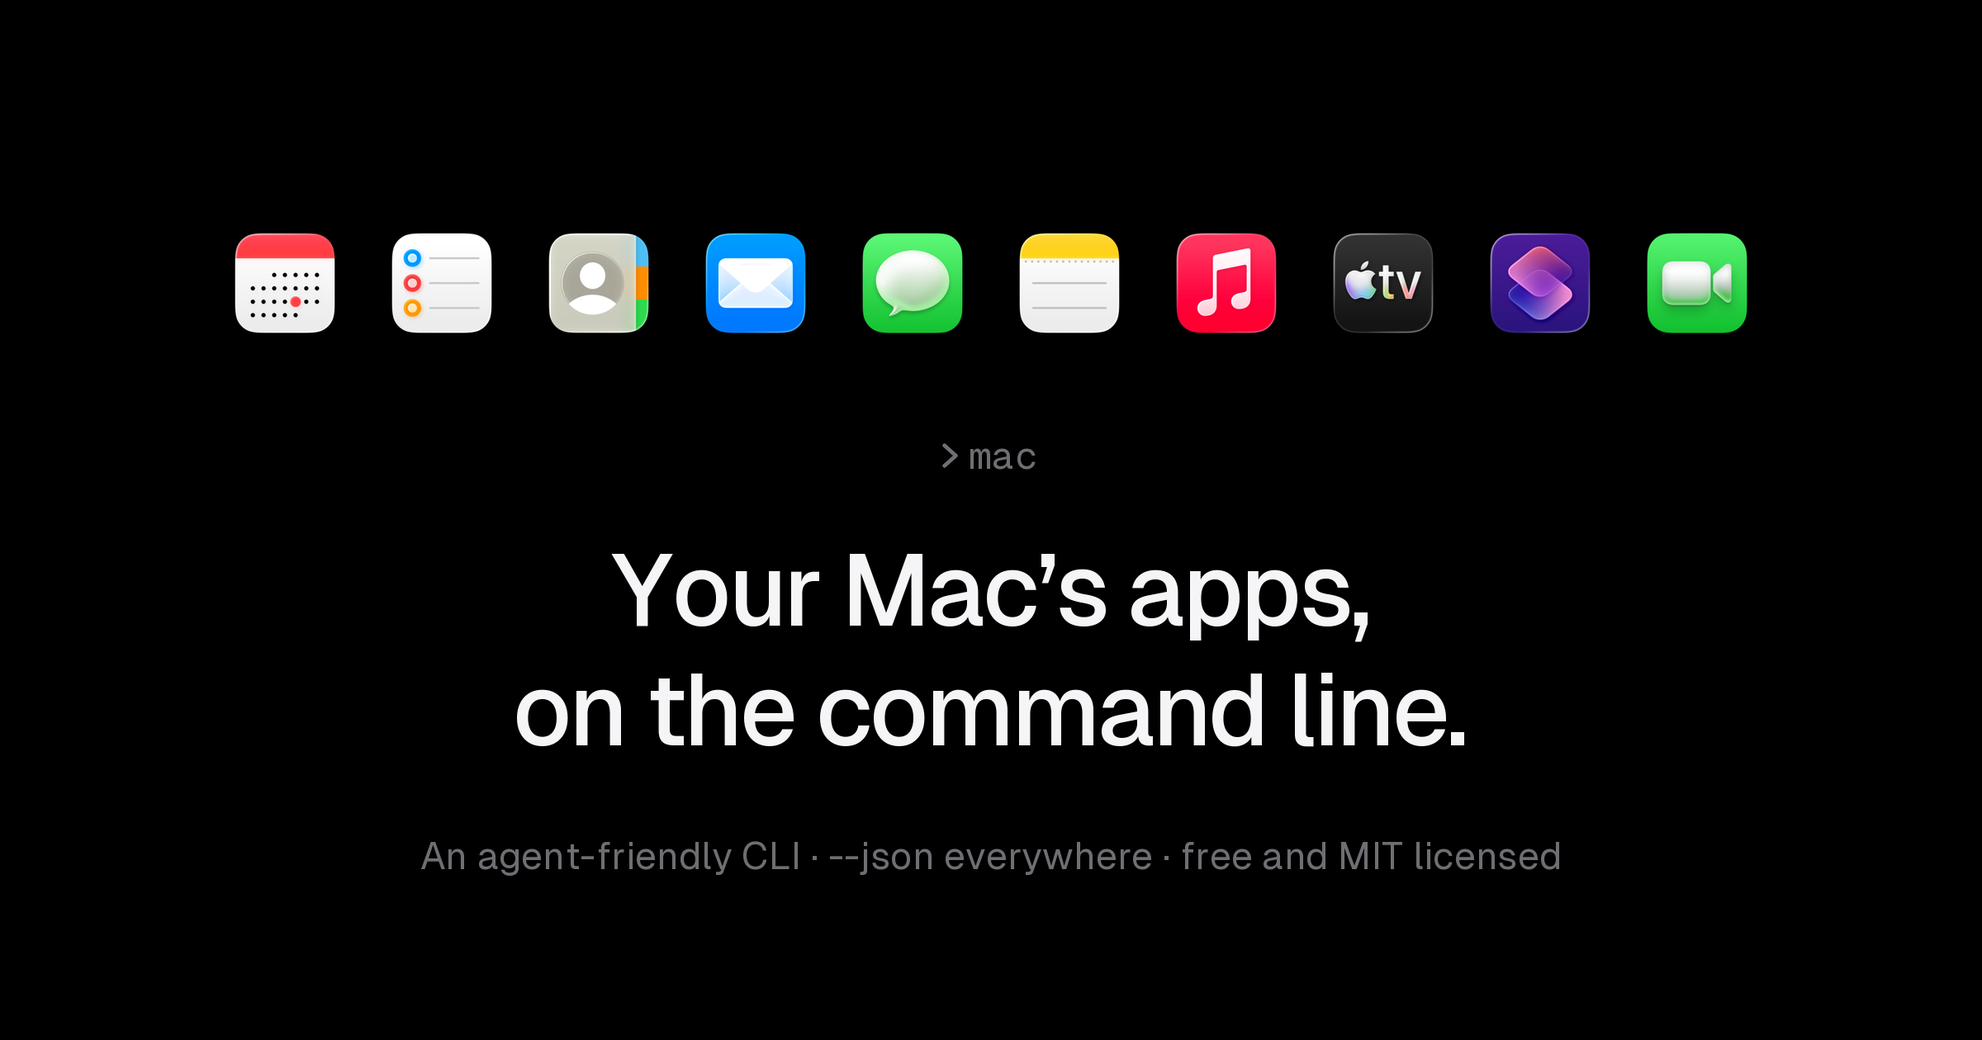
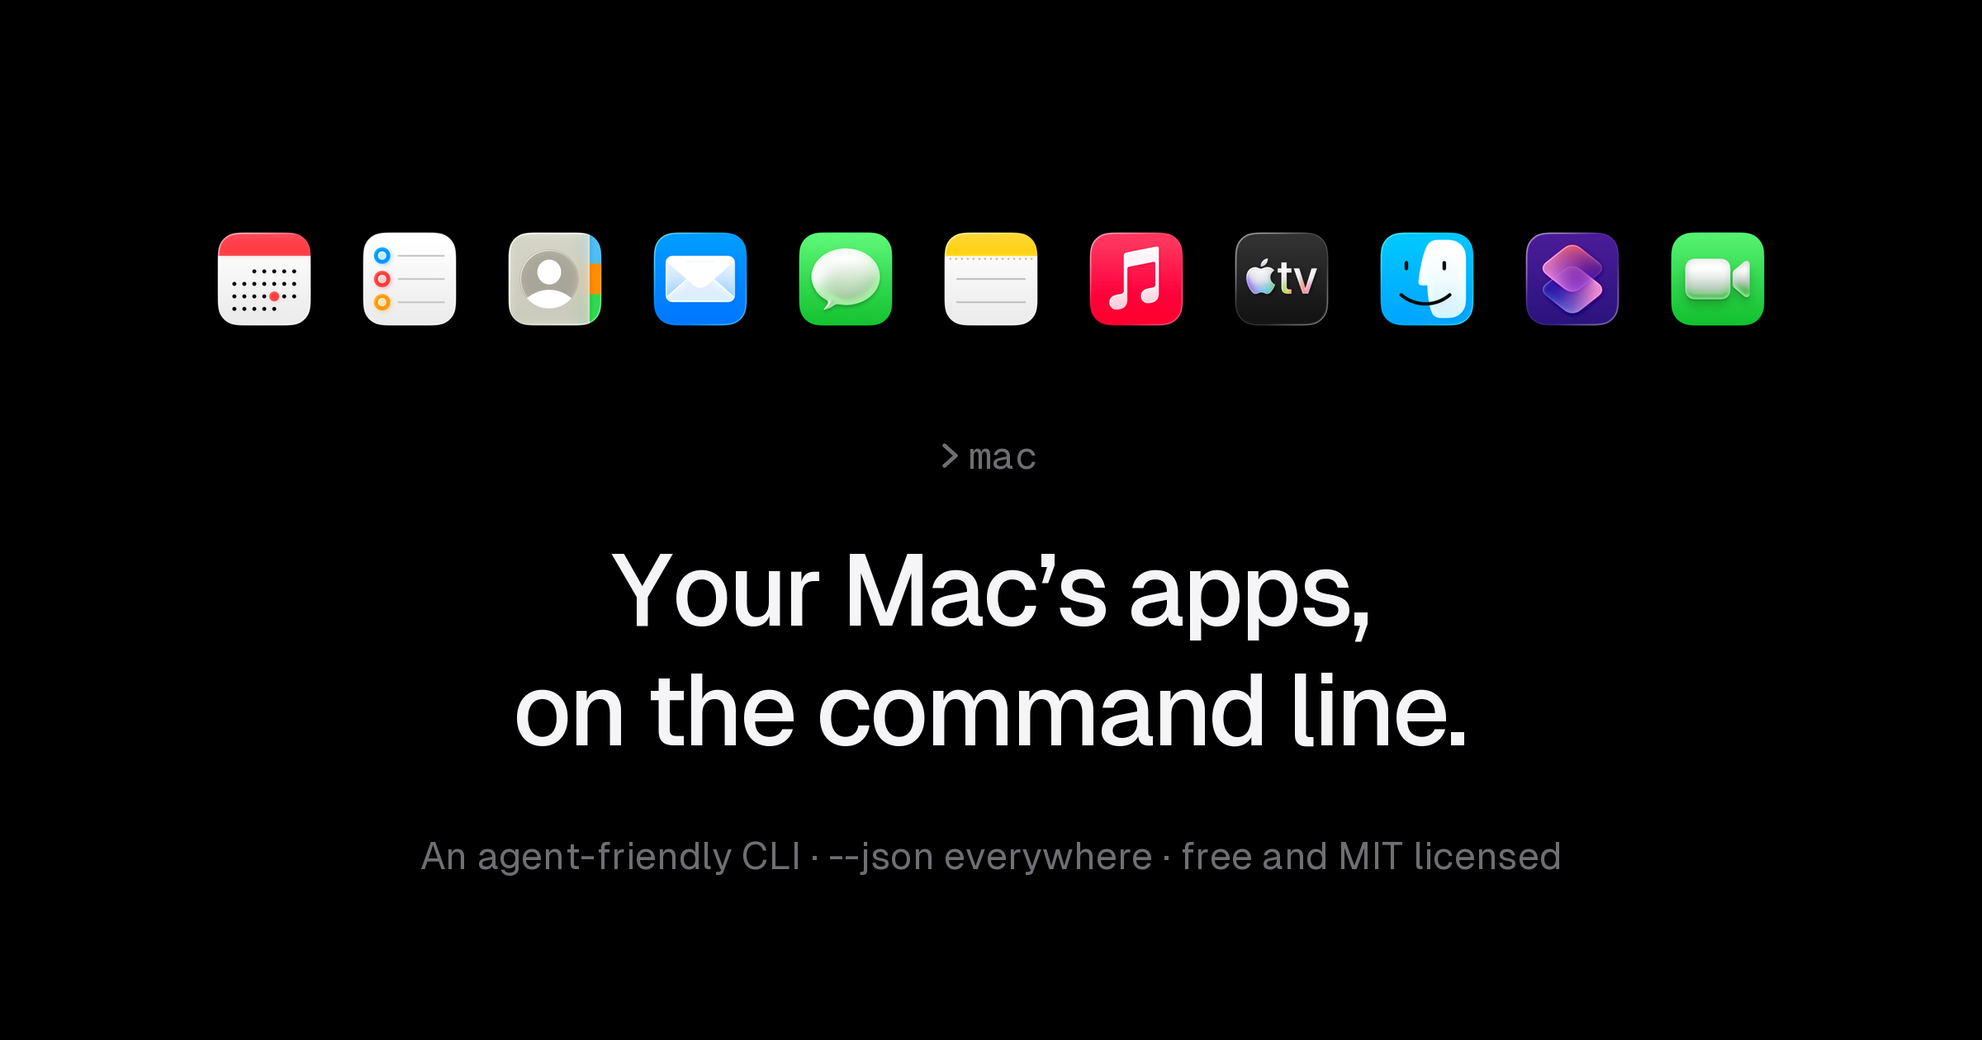
feat(site): promote the site to v0.5.0 with Finder
Finder joins the hero row and the card grid, the doctor sample gains
its eleventh row, and the roadmap drops to Keynote/Pages/Numbers now
that v5 has shipped. The OG card gains an eleventh icon, with the row
tightened to 140px so it still balances at 2400 wide.

The Finder card leads with the restraint rather than the feature
list, because that is the interesting part: it covers the GUI state a
shell cannot see (selection, reveal, mounted disks) and deliberately
has no ls/cp/mv, since an agent driving this already has a shell.

llms.txt tells agents to prefer `mac finder trash` over `rm` for a
user's files, since it is recoverable and there is no empty-trash
command anywhere in the tool. Its scriptability table is regenerated
from README.md, which no longer lists Finder as unwired.

The launch kit follows to eleven apps and 422 tests, both counted
from the tree rather than taken on trust.

Changed region(s): [[0.0938, 0.2167, 0.9062, 0.3405]]

diff --git a/site/index.html b/site/index.html
@@ -4,12 +4,12 @@
 <meta charset="utf-8">
 <meta name="viewport" content="width=device-width, initial-scale=1">
 <title>mac: your Mac's apps, on the command line</title>
-<meta name="description" content="An agent-friendly CLI for Calendar, Reminders, Contacts, Mail, Messages, Notes, Music, TV, Shortcuts and calls. Native frameworks, millisecond calls, --json on every command, exit codes an agent can branch on. Free and MIT licensed.">
+<meta name="description" content="An agent-friendly CLI for Calendar, Reminders, Contacts, Mail, Messages, Notes, Music, TV, Finder, Shortcuts and calls. Native frameworks, millisecond calls, --json on every command, exit codes an agent can branch on. Free and MIT licensed.">
 <link rel="canonical" href="https://macoscli.sh/">
 <meta property="og:type" content="website">
 <meta property="og:site_name" content="mac">
 <meta property="og:title" content="mac: your Mac's apps, on the command line">
-<meta property="og:description" content="An agent-friendly CLI for Calendar, Reminders, Contacts, Mail, Messages, Notes, Music, TV, Shortcuts and calls. Free and open source.">
+<meta property="og:description" content="An agent-friendly CLI for Calendar, Reminders, Contacts, Mail, Messages, Notes, Music, TV, Finder, Shortcuts and calls. Free and open source.">
 <meta property="og:url" content="https://macoscli.sh/">
 <meta property="og:image" content="https://macoscli.sh/assets/og.png">
 <meta property="og:image:width" content="2400">
@@ -266,7 +266,7 @@
 </header>
 
 <section class="hero rail">
-  <h1><img class="inline-icon" src="/assets/calendar.png" alt="">Calendar, <img class="inline-icon" src="/assets/reminders.png" alt="">Reminders, <img class="inline-icon" src="/assets/contacts.png" alt="">Contacts, <img class="inline-icon" src="/assets/mail.png" alt="">Mail, <img class="inline-icon" src="/assets/messages.png" alt="">Messages, <img class="inline-icon" src="/assets/notes.png" alt="">Notes, <img class="inline-icon" src="/assets/music.png" alt="">Music, <img class="inline-icon" src="/assets/tv.png" alt="">TV, <img class="inline-icon" src="/assets/shortcuts.png" alt="">Shortcuts and <img class="inline-icon" src="/assets/facetime.png" alt="">FaceTime, on the command line. <span class="rest">One binary, built for AI agents and the humans who drive them. Every command has <code>--json</code>, stable exit codes, and IDs you can trust.</span></h1>
+  <h1><img class="inline-icon" src="/assets/calendar.png" alt="">Calendar, <img class="inline-icon" src="/assets/reminders.png" alt="">Reminders, <img class="inline-icon" src="/assets/contacts.png" alt="">Contacts, <img class="inline-icon" src="/assets/mail.png" alt="">Mail, <img class="inline-icon" src="/assets/messages.png" alt="">Messages, <img class="inline-icon" src="/assets/notes.png" alt="">Notes, <img class="inline-icon" src="/assets/music.png" alt="">Music, <img class="inline-icon" src="/assets/tv.png" alt="">TV, <img class="inline-icon" src="/assets/finder.png" alt="">Finder, <img class="inline-icon" src="/assets/shortcuts.png" alt="">Shortcuts and <img class="inline-icon" src="/assets/facetime.png" alt="">FaceTime, on the command line. <span class="rest">One binary, built for AI agents and the humans who drive them. Every command has <code>--json</code>, stable exit codes, and IDs you can trust.</span></h1>
   <div class="buttons">
     <span class="cmd">
       <code id="install"><span class="p">❯</span>git clone https://github.com/31Carlton7/mac-cli.git &amp;&amp; cd mac-cli &amp;&amp; make install</code>
@@ -290,7 +290,7 @@
 </div>
 
 <section class="statement rail">
-  <h2>Native frameworks, not screen scraping. <span class="rest">Calendar, Reminders and Contacts run on EventKit and Contacts: millisecond calls, typed errors, stable IDs. Mail, Messages, Notes, Music, TV and Shortcuts go through AppleScript and a read-only Messages database, because Apple ships no public API for them, and <code>mac</code> is honest about the difference.</span></h2>
+  <h2>Native frameworks, not screen scraping. <span class="rest">Calendar, Reminders and Contacts run on EventKit and Contacts: millisecond calls, typed errors, stable IDs. Mail, Messages, Notes, Music, TV, Finder and Shortcuts go through AppleScript and a read-only Messages database, because Apple ships no public API for them, and <code>mac</code> is honest about the difference.</span></h2>
 </section>
 
 <section class="rail">
@@ -342,6 +342,12 @@
       <p>What's playing, pause, resume, play by id.</p>
       <pre><span class="t-p">❯ </span><span class="t-cmd">mac tv list</span> <span class="t-arg">--limit 10</span>
 <span class="t-p">❯ </span><span class="t-cmd">mac tv play</span> <span class="t-arg">&lt;id&gt;</span></pre>
+    </div>
+    <div class="app">
+      <div class="app-head"><img src="/assets/finder.png" alt=""><h3>Finder</h3></div>
+      <p>The GUI state your shell cannot reach. No <code>ls</code> or <code>cp</code>; you already have those.</p>
+      <pre><span class="t-p">❯ </span><span class="t-cmd">mac finder selection</span>
+<span class="t-p">❯ </span><span class="t-cmd">mac finder trash</span> <span class="t-arg">~/Downloads/old-draft.pdf</span></pre>
     </div>
     <div class="app">
       <div class="app-head"><img src="/assets/shortcuts.png" alt=""><h3>Shortcuts</h3></div>
@@ -423,7 +429,8 @@
 ✓ Notes              Automation consent granted
 ✓ Music              Automation consent granted
 ✓ TV                 Automation consent granted
-✓ Shortcuts Events   Automation consent granted</span>
+✓ Shortcuts Events   Automation consent granted
+✓ Finder             Automation consent granted</span>
 <span class="t-hi">✗ Full Disk Access   missing for Terminal</span>
 <span class="t-dim">                     → System Settings › Privacy &amp; Security › Full Disk Access</span></pre></div>
   </div>
@@ -432,12 +439,11 @@
 <section class="rail">
   <h2 class="label">Next</h2>
   <div class="soon">
-    <span><img src="/assets/finder.png" alt="">Finder</span>
     <span><img src="/assets/keynote.png" alt="">Keynote</span>
     <span><img src="/assets/pages.png" alt="">Pages</span>
     <span><img src="/assets/numbers.png" alt="">Numbers</span>
   </div>
-  <p class="soon-note">Finder lands in v5 and the iWork apps in v6, along with a Homebrew tap. Photos, QuickTime, Preview and TextEdit are all scriptable and on the list after that.</p>
+  <p class="soon-note">The iWork apps land in v6, along with a Homebrew tap. Photos, QuickTime Player, Preview and TextEdit are all scriptable and on the list after that.</p>
 </section>
 
 <section class="rail">

diff --git a/site/scripts/make-og.py b/site/scripts/make-og.py
@@ -35,6 +35,7 @@ APPS = [
     ("Notes", "/System/Applications/Notes.app"),
     ("Music", "/System/Applications/Music.app"),
     ("TV", "/System/Applications/TV.app"),
+    ("Finder", "/System/Library/CoreServices/Finder.app"),
     ("Shortcuts", "/System/Applications/Shortcuts.app"),
     ("FaceTime", "/System/Applications/FaceTime.app"),
 ]
@@ -108,7 +109,7 @@ def main():
             x += d.textlength(ch, font=font) + track
 
     with tempfile.TemporaryDirectory() as tmp:
-        size, gap = 150, 40
+        size, gap = 140, 36
         x = (W - (len(APPS) * size + (len(APPS) - 1) * gap)) // 2
         for name, path in APPS:
             png = icon_png(path, os.path.join(tmp, f"{name}.png"))

diff --git a/docs/launch.md b/docs/launch.md
@@ -1,6 +1,6 @@
-# Launch kit: mac v0.4.0
+# Launch kit: mac v0.5.0
 
-Written for the **current release**: ten apps (Calendar, Reminders, Contacts, Mail, Messages, Notes, Music, TV, Shortcuts, plus call and FaceTime initiation), install by cloning and building, macOS 14+, 387 tests.
+Written for the **current release**: eleven apps (Calendar, Reminders, Contacts, Mail, Messages, Notes, Music, TV, Finder, Shortcuts, plus call and FaceTime initiation), install by cloning and building, macOS 14+, 422 tests.
 
 Site: https://macoscli.sh
 Repo: https://github.com/31Carlton7/mac-cli
@@ -19,11 +19,11 @@ Keep two caveats intact everywhere: `mac call` and `mac facetime` only initiate,
 
 I kept hitting the same wall with coding agents on my Mac. I could ask one to refactor a service, but I couldn't ask it to put the resulting meeting on my calendar, because there was nothing on the machine for it to call.
 
-So I built `mac`. One binary that drives Calendar, Reminders, Contacts, Mail, Messages, Notes, Music and TV, runs any Shortcut, and can start a phone or FaceTime call.
+So I built `mac`. One binary that drives Calendar, Reminders, Contacts, Mail, Messages, Notes, Music, TV and Finder, runs any Shortcut, and can start a phone or FaceTime call.
 
 The part I cared most about is that it behaves when something other than a human is driving. Every command takes `--json` and returns sorted keys and ISO 8601 dates. Exit codes are `0` success, `1` not found or bad input, `2` permission denied, `64` you built the invocation wrong. Mutations only take exact IDs, so an agent has to `list` or `find` before it can `delete`, and it can't invent an identifier and get lucky.
 
-Calendar, Reminders and Contacts run on EventKit and Contacts, so those are native calls with typed errors and stable IDs. Mail, Messages, Notes, Music, TV and Shortcuts go through AppleScript, plus a read-only copy of the chat database for message history, because Apple ships no public API for those. The README says which is which instead of pretending it's uniform.
+Calendar, Reminders and Contacts run on EventKit and Contacts, so those are native calls with typed errors and stable IDs. Mail, Messages, Notes, Music, TV, Finder and Shortcuts go through AppleScript, plus a read-only copy of the chat database for message history, because Apple ships no public API for those. The README says which is which instead of pretending it's uniform.
 
 The thing I ended up proudest of is the part where I gave up. A pile of Apple's own apps have no automation surface at all: Podcasts, News, Stocks, Maps, Weather, Books, Voice Memos, Freeform, Journal, Home, Passwords. I surveyed every first-party app with `sdef` and put the results in the README as a table, including the ones that return error -192 and can never be modules. For those, `mac shortcuts run "Some Shortcut"` is the documented workaround: you wrap the job in a Shortcut once and the agent drives that. I'd rather ship a table that says "impossible, here's the way around it" than quietly fake coverage.
 
@@ -31,9 +31,11 @@ Two things I'd flag as genuinely rough. Mail reads are windowed: each read only 
 
 `mac call` and `mac facetime` only initiate. macOS raises its own confirmation before it dials and there's no answer or hang-up surface, so the CLI doesn't pretend to have one. There's a `--dry-run` that prints the URL it would open.
 
-There's also a `mac doctor` that audits all ten permission grants and prints the fix for whatever is missing, because "operation not permitted" with no other context is a miserable way to find out you needed Full Disk Access.
+`mac finder` is the odd one out, and deliberately so. It covers the GUI state a shell cannot see: what you have selected right now, revealing a path in a window, what disks are mounted. It has no ls, no cp, no mv, because you already have a shell for those. It also has no empty-trash. `mac finder trash` moves a file somewhere the user can get it back from, and nothing in the tool can permanently destroy a file.
 
-Requires macOS 14 and Xcode command line tools. MIT licensed. 387 tests. No telemetry, no network calls, no server.
+There's also a `mac doctor` that audits all eleven permission grants and prints the fix for whatever is missing, because "operation not permitted" with no other context is a miserable way to find out you needed Full Disk Access.
+
+Requires macOS 14 and Xcode command line tools. MIT licensed. 422 tests. No telemetry, no network calls, no server.
 
     git clone https://github.com/31Carlton7/mac-cli.git && cd mac-cli && make install
 
@@ -49,7 +51,7 @@ Your coding agent can refactor your whole app.
 
 It can't add a thing to your calendar.
 
-So I built `mac`, a CLI that gives it Calendar, Reminders, Contacts, Mail, Messages, Notes, Music, TV and Shortcuts.
+So I built `mac`, a CLI that gives it Calendar, Reminders, Contacts, Mail, Messages, Notes, Music, TV, Finder and Shortcuts.
 
 Free, MIT, macOS.
 
@@ -69,7 +71,7 @@ No guessing. It has to look something up before it can change it.
 
 Calendar, Reminders and Contacts run on EventKit and Contacts. Native calls, millisecond responses, typed errors.
 
-Mail, Messages, Notes, Music, TV and Shortcuts go through AppleScript, because Apple ships no public API for them.
+Mail, Messages, Notes, Music, TV, Finder and Shortcuts go through AppleScript, because Apple ships no public API for them.
 
 The README tells you which is which. I'd rather be honest than look uniform.
 
@@ -101,11 +103,19 @@ Now every read is windowed to the newest N messages. It's a real limitation and 
 
 **7/**
 
-Ten apps, 387 tests, MIT.
+`mac finder` gets its own rule: no ls, no cp, no mv. You have a shell.
+
+What it does have is the stuff a shell can't see. What's selected right now. Reveal a path. Mounted disks.
+
+And `finder trash`, never `rm`, so the user can get it back. There's no empty-trash command at all.
+
+**8/**
+
+Eleven apps, 422 tests, MIT.
 
     git clone https://github.com/31Carlton7/mac-cli.git && cd mac-cli && make install
 
-Finder is next, then Keynote/Pages/Numbers.
+Keynote, Pages and Numbers are next.
 
 macOS 14+. Would love to know what you'd want it to reach next.
 
@@ -123,16 +133,17 @@ Best fits: r/macapps, r/commandline, r/ClaudeAI. Post to one, wait a day, then t
 
 I use coding agents on my Mac all day, and the gap kept bugging me: they can touch every file in my project but nothing in the apps I actually live in. There's no public surface for "put this on my calendar."
 
-`mac` is one binary that covers Calendar, Reminders, Contacts, Mail, Messages, Notes, Music and TV, runs any Shortcut, and can start a phone or FaceTime call.
+`mac` is one binary that covers Calendar, Reminders, Contacts, Mail, Messages, Notes, Music, TV and Finder, runs any Shortcut, and can start a phone or FaceTime call.
 
 It's built so something other than a human can run it safely:
 
 - `--json` on every command, with sorted keys and ISO 8601 dates
 - exit codes you can branch on: 0 success, 1 not found, 2 permission denied, 64 bad invocation
 - mutations take exact IDs only, so an agent has to look a thing up before it can delete it
-- `mac doctor` audits all ten permission grants and tells you how to fix the missing one
+- `mac doctor` audits all eleven permission grants and tells you how to fix the missing one
+- `mac finder trash` instead of `rm`, so deletes are recoverable. There is no empty-trash command.
 
-Calendar, Reminders and Contacts use the native frameworks. Mail, Messages, Notes, Music, TV and Shortcuts use AppleScript, since Apple gives you nothing else.
+Calendar, Reminders and Contacts use the native frameworks. Mail, Messages, Notes, Music, TV, Finder and Shortcuts use AppleScript, since Apple gives you nothing else.
 
 The bit I think is actually useful: I surveyed every first-party Apple app to see what can be scripted at all, and the README has the table. Podcasts, News, Stocks, Maps, Weather and a bunch of others have no automation surface whatsoever, so nothing can drive them. For those, you wrap the task in a Shortcut and run `mac shortcuts run "Your Shortcut"`. I'd rather document the dead ends than pretend they don't exist.
 
@@ -150,15 +161,11 @@ Curious which app people would want covered next.
 
 **One-liner**
 
-    Your Mac's apps, on the command line. Ten apps, --json on everything, exit codes an agent can branch on.
+    Your Mac's apps, on the command line. Eleven apps, --json on everything, exit codes an agent can branch on.
 
-**GitHub repo description** (already applied)
+**GitHub repo description** (applied)
 
-    An agent-friendly CLI for native macOS apps. Calendar, Reminders, Contacts, Mail, Messages and Notes from one binary, with --json on every command, stable exit codes and IDs you can trust. MIT.
-
-Worth refreshing for 0.4.0:
-
-    An agent-friendly CLI for native macOS apps. Calendar, Reminders, Contacts, Mail, Messages, Notes, Music, TV, Shortcuts and calls from one binary, with --json on every command, stable exit codes and IDs you can trust. MIT.
+    An agent-friendly CLI for native macOS apps. Calendar, Reminders, Contacts, Mail, Messages, Notes, Music, TV, Finder, Shortcuts and calls from one binary, with --json on every command, stable exit codes and IDs you can trust. MIT.
 
 **GitHub topics** (already set)
 
@@ -173,10 +180,10 @@ Before posting:
 - [x] DNS for macoscli.sh points at Vercel, https://macoscli.sh loads
 - [x] Repo description and topics set, website field set to https://macoscli.sh
 - [x] README links to the site
-- [ ] Refresh the repo description for 0.4.0 (text above)
 - [ ] Card preview renders (test at opengraph.xyz or by pasting the link into a DM)
 - [ ] `git clone ... && make install` verified from scratch in a clean directory
-- [ ] Tagged release v0.4.0 on GitHub so people can cite a version
+- [x] Repo description refreshed for 0.5.0
+- [ ] Tagged release v0.5.0 on GitHub so people can cite a version
 
 Timing: Show HN lands best Tuesday to Thursday, roughly 9-11am ET. Post it yourself, don't ask anyone to upvote, and stay in the thread for the first two hours since early replies decide it.
 

diff --git a/site/index.md b/site/index.md
@@ -1,6 +1,6 @@
 # mac: your Mac's apps, on the command line
 
-Calendar, Reminders, Contacts, Mail, Messages, Notes, Music, TV and Shortcuts, driven from one binary, plus phone and FaceTime calls. Built for AI agents and the humans who drive them: every command has `--json`, stable exit codes, and IDs you can trust.
+Calendar, Reminders, Contacts, Mail, Messages, Notes, Music, TV, Finder and Shortcuts, driven from one binary, plus phone and FaceTime calls. Built for AI agents and the humans who drive them: every command has `--json`, stable exit codes, and IDs you can trust.
 
     git clone https://github.com/31Carlton7/mac-cli.git && cd mac-cli && make install
 
@@ -8,7 +8,7 @@ Requires macOS 14 or later and Xcode command line tools.
 
 ## Native frameworks, not screen scraping
 
-Calendar, Reminders and Contacts run on EventKit and Contacts: millisecond calls, typed errors, stable IDs. Mail, Messages, Notes, Music, TV and Shortcuts go through AppleScript and a read-only Messages database, because Apple ships no public API for them, and `mac` is honest about the difference.
+Calendar, Reminders and Contacts run on EventKit and Contacts: millisecond calls, typed errors, stable IDs. Mail, Messages, Notes, Music, TV, Finder and Shortcuts go through AppleScript and a read-only Messages database, because Apple ships no public API for them, and `mac` is honest about the difference.
 
 ## The apps
 
@@ -52,6 +52,12 @@ Calendar, Reminders and Contacts run on EventKit and Contacts: millisecond calls
     mac tv list --limit 10
     mac tv play <id>
 
+**Finder.** The GUI state your shell cannot reach. No ls or cp, because you already have a shell.
+
+    mac finder selection
+    mac finder trash ~/Downloads/old-draft.pdf
+    mac finder disks
+
 **Shortcuts.** The escape hatch: anything you can wrap in a Shortcut.
 
     mac shortcuts list
@@ -75,7 +81,7 @@ Calendar, Reminders and Contacts run on EventKit and Contacts: millisecond calls
 
 ## Permissions, diagnosed
 
-macOS prompts once per capability, and `mac doctor` reports all ten grants (Calendar, Reminders and Contacts access, Automation consent for Mail, Messages, Notes, Music, TV and Shortcuts Events, and Full Disk Access) with fix steps when something is missing. No silent failures, no mystery errors.
+macOS prompts once per capability, and `mac doctor` reports all eleven grants (Calendar, Reminders and Contacts access, Automation consent for Mail, Messages, Notes, Music, TV, Shortcuts Events and Finder, and Full Disk Access) with fix steps when something is missing. No silent failures, no mystery errors.
 
     mac doctor
 
@@ -85,7 +91,7 @@ Podcasts, News, Stocks, Maps, Weather, Books, Voice Memos, Freeform, Journal, Ho
 
 ## Next
 
-Finder lands in v5 and Keynote, Pages and Numbers in v6, along with a Homebrew tap. Photos, QuickTime Player, Preview and TextEdit are all scriptable and are on the list after that.
+Keynote, Pages and Numbers land in v6, along with a Homebrew tap. Photos, QuickTime Player, Preview and TextEdit are all scriptable and are on the list after that.
 
 ## About
 
